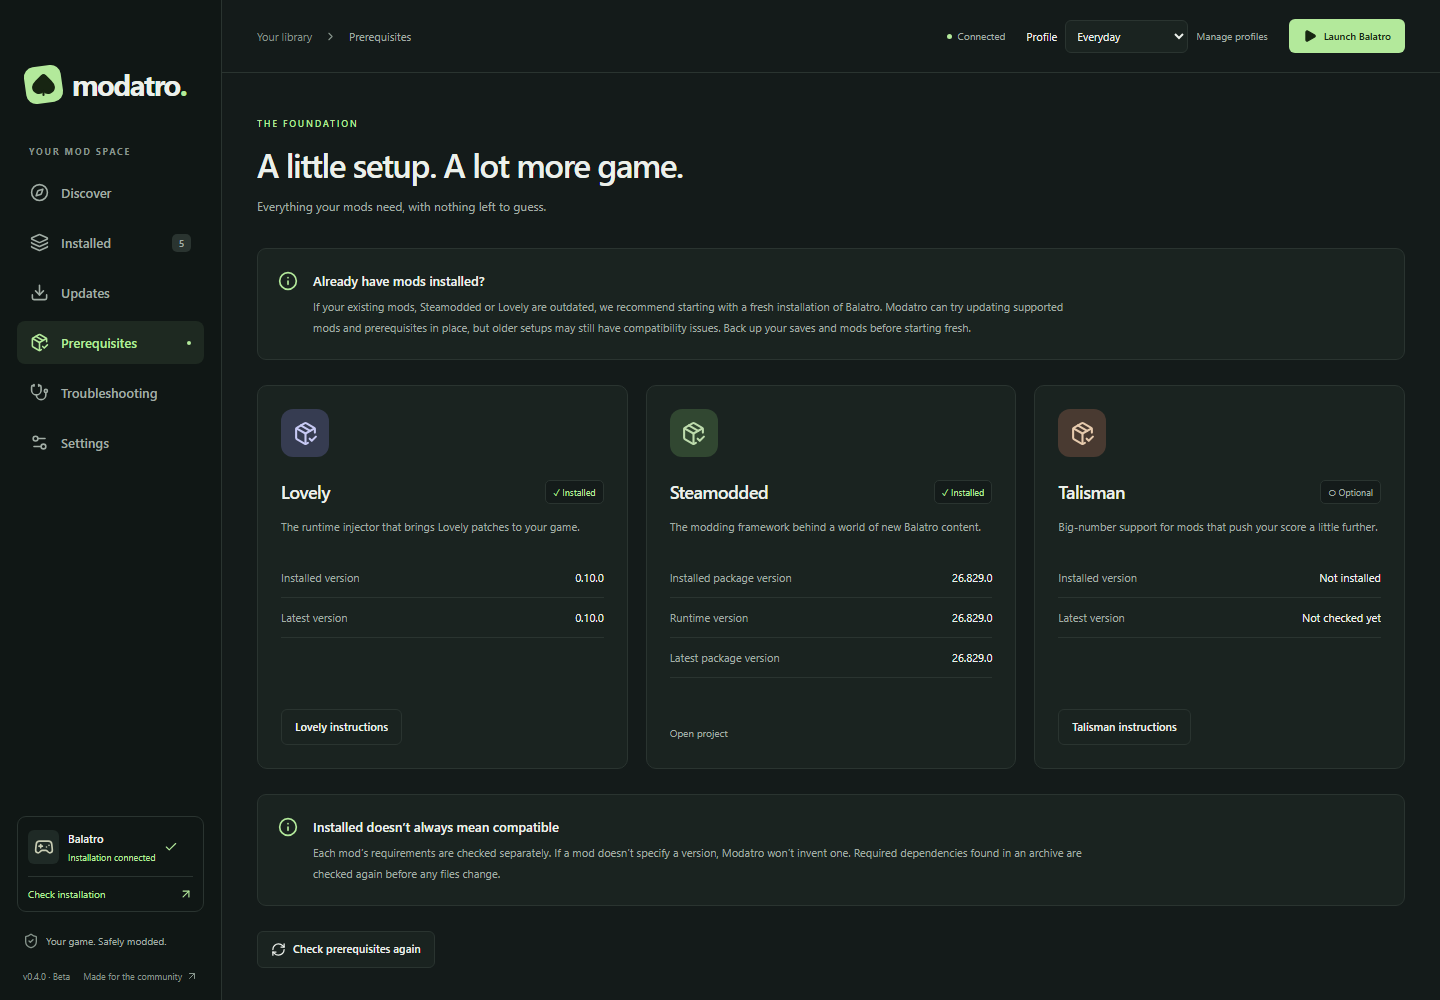
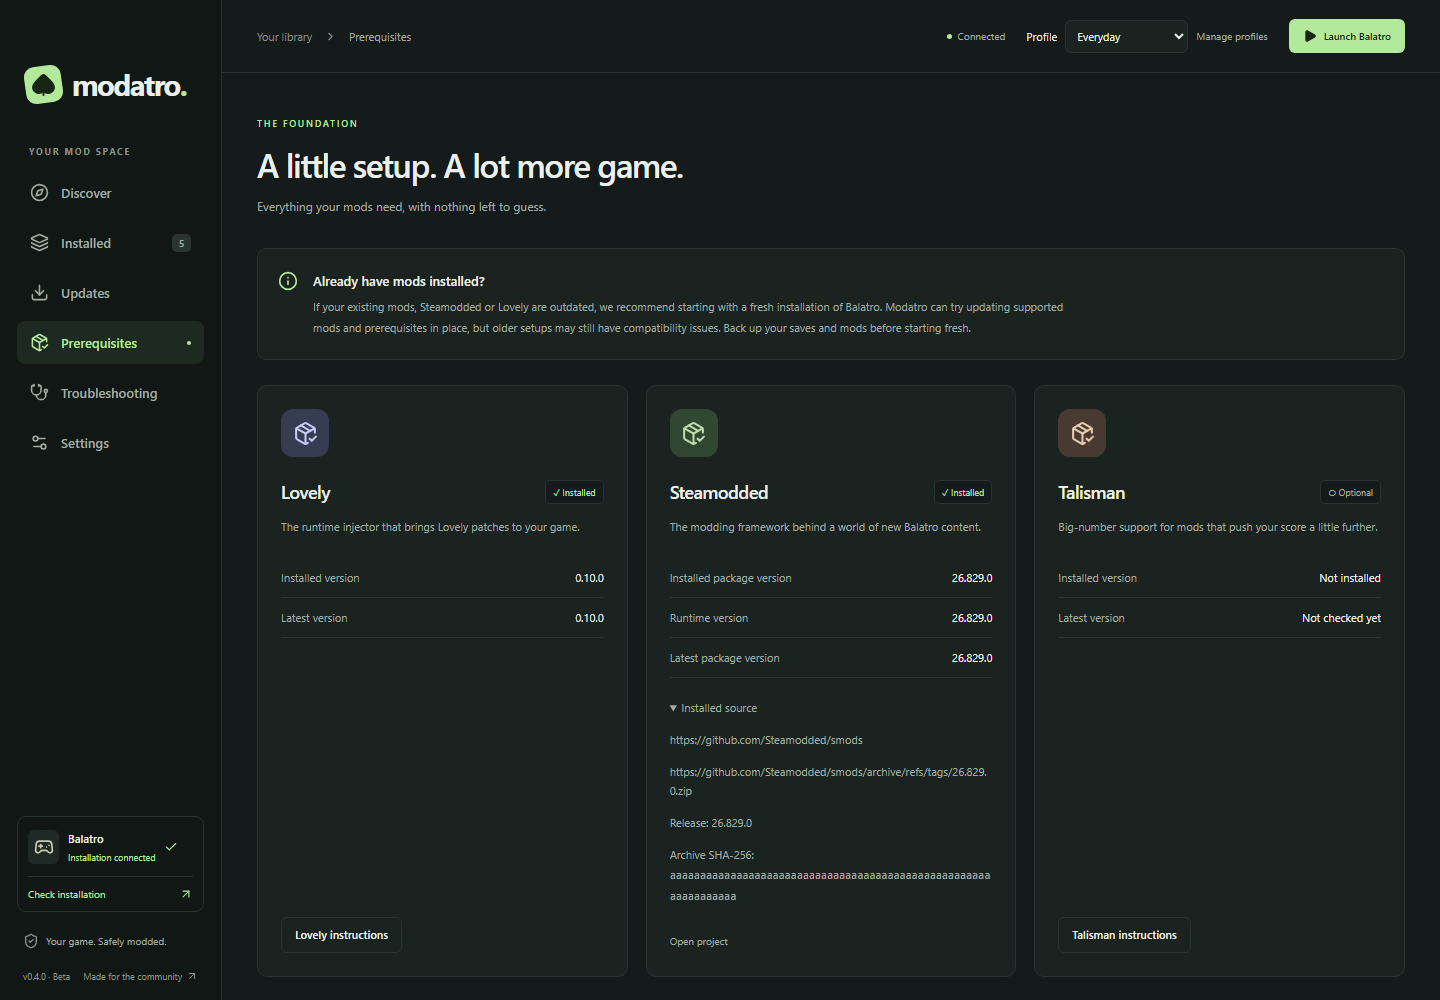
Wrap long source details and file paths across the app (#7)

diff --git a/tests/ui-requests.spec.ts b/tests/ui-requests.spec.ts
@@ -1246,6 +1246,153 @@ test('prerequisites keep external loader versions visible when package versions 
   await expect(lovely.locator('dd').first()).toHaveText('Version unknown');
 });
 
+test('source records, filenames and error paths wrap across pages and viewport widths', async ({
+  page,
+}) => {
+  const state = fixture();
+  const segment = 'LongUnbrokenName'.repeat(10);
+  const url = `https://github.com/tests/${segment}/archive/refs/tags/26.1002.0.zip`;
+  const path = `fixture/${segment}.lua`;
+  const provenance = {
+    sourceType: 'tag' as const,
+    repositoryUrl: `https://github.com/tests/${segment}`,
+    downloadUrl: url,
+    releaseTag: '26.1002.0',
+    sha256: 'a'.repeat(64),
+  };
+  for (const id of ['Lovely', 'Steamodded', 'Talisman']) {
+    const value = {
+      id,
+      displayName: id,
+      installed: true,
+      installedVersion: '26.1002.0',
+      latestVersion: '26.1002.0',
+      sourceUrl: provenance.repositoryUrl,
+      provenance,
+    };
+    const existing = state.prerequisites.find((p) => p.id === id);
+    if (existing) Object.assign(existing, value);
+    else state.prerequisites.push(value);
+  }
+  state.catalogue.mods[0]!.repositoryUrl = provenance.repositoryUrl;
+  state.catalogue.mods[0]!.title = segment;
+  state.localMods.push({
+    id: 'fixture',
+    title: 'Fixture mod',
+    version: '1.0.0',
+    state: 'broken',
+    managed: true,
+    folderName: 'fixture',
+    canAdopt: false,
+    provenance,
+    files: [{ root: 'mods', path, operation: 'created' }],
+    problems: [`Could not verify ${path}`],
+  });
+  state.settings.gamePath = `/game/${segment}`;
+  state.settings.modsPath = `/mods/${segment}`;
+  await mockDesktop(page, state, { previewPlan: 'hold', launch: 'hold' });
+  const assertContained = async () => {
+    const clipped = await page.evaluate(() => {
+      const scope =
+        document.querySelector('dialog[open]') ?? document.querySelector('.main-content')!;
+      const failures: string[] = [];
+      for (const element of scope.querySelectorAll<HTMLElement>('p, code, dd, li, h2, h3')) {
+        if (
+          !element.getClientRects().length ||
+          element.closest('details:not([open]) > :not(summary)')
+        )
+          continue;
+        const style = getComputedStyle(element);
+        if (style.textOverflow === 'ellipsis' || Number.parseInt(style.webkitLineClamp) > 0)
+          continue;
+        if (element.scrollWidth > element.clientWidth + 1)
+          failures.push(element.textContent!.slice(0, 100));
+        const range = document.createRange();
+        range.selectNodeContents(element);
+        const boundary = (
+          element.closest('.prerequisite-card, .local-row, dialog') ?? scope
+        ).getBoundingClientRect();
+        if (
+          [...range.getClientRects()].some(
+            (rect) =>
+              rect.width && (rect.left < boundary.left - 1 || rect.right > boundary.right + 1),
+          )
+        )
+          failures.push(`Outside container: ${element.textContent!.slice(0, 100)}`);
+      }
+      return failures;
+    });
+    expect(clipped).toEqual([]);
+  };
+  for (const width of [1440, 1024, 768, 375]) {
+    await page.setViewportSize({ width, height: 1000 });
+    await page.getByRole('button', { name: 'Discover', exact: true }).click();
+    await assertContained();
+    await page.getByRole('button', { name: 'Updates', exact: true }).click();
+    await assertContained();
+    await page.getByRole('button', { name: 'Troubleshooting', exact: true }).click();
+    await expect(page.getByRole('heading', { name: 'Setup overview', exact: true })).toBeVisible();
+    await assertContained();
+    await page.getByRole('button', { name: 'Prerequisites', exact: true }).click();
+    for (const source of await page.locator('.prerequisite-card details').all()) {
+      if ((await source.getAttribute('open')) === null) await source.locator('summary').click();
+    }
+    await expect(
+      page.locator('.prerequisite-card').first().getByText(url, { exact: true }),
+    ).toBeVisible();
+    await assertContained();
+    if (width === 1440 || width === 375)
+      await page.screenshot({
+        path: `test-results/prerequisite-source-${width}.png`,
+        fullPage: true,
+      });
+    await page
+      .getByRole('navigation')
+      .getByRole('button', { name: /^Installed/ })
+      .click();
+    for (const source of await page.locator('.local-row details').all()) {
+      if ((await source.getAttribute('open')) === null) await source.locator('summary').click();
+    }
+    await assertContained();
+    await page.getByRole('button', { name: 'Fixture mod', exact: true }).click();
+    await assertContained();
+    const dialog = page.getByRole('dialog');
+    await dialog.getByRole('button', { name: 'Preview file changes', exact: true }).click();
+    await page.evaluate(
+      (path) =>
+        window.requestsTest.finish('previewPlan', {
+          ok: true,
+          value: {
+            modId: 'fixture',
+            version: '1.0.0',
+            create: [{ root: 'mods', path }],
+            replace: [],
+            remove: [],
+            prerequisites: [],
+            conflicts: [],
+          },
+        }),
+      path,
+    );
+    await dialog.locator('details summary').click();
+    await assertContained();
+    await page.keyboard.press('Escape');
+    await page.getByRole('button', { name: 'Settings', exact: true }).click();
+    await assertContained();
+    await page.getByRole('button', { name: /^Launch (Modded )?Balatro$/ }).click();
+    await page.evaluate(
+      (path) =>
+        window.requestsTest.finish('launch', {
+          ok: false,
+          error: { message: `Cannot access ${path}` },
+        }),
+      path,
+    );
+    await assertContained();
+    await closeError(page);
+  }
+});
+
 test('prerequisites compare only recorded versions from the same package source', async ({
   page,
 }) => {

diff --git a/src/styles.css b/src/styles.css
@@ -47,6 +47,7 @@
 body {
   margin: 0;
   color: var(--text);
+  overflow-wrap: anywhere;
 }
 button,
 input,
@@ -1173,6 +1174,7 @@ select {
   padding: 23px;
   display: flex;
   flex-direction: column;
+  min-width: 0;
 }
 .prerequisite-icon {
   width: 48px;
@@ -1244,6 +1246,7 @@ select {
 }
 .version-facts dd {
   margin: 0;
+  min-width: 0;
   text-align: right;
   overflow-wrap: anywhere;
 }
@@ -1251,6 +1254,7 @@ details {
   color: var(--muted);
   font-size: 11px;
   line-height: 1.8;
+  min-width: 0;
 }
 summary {
   cursor: pointer;

diff --git a/CONTRIBUTING.md b/CONTRIBUTING.md
@@ -142,9 +142,11 @@ pnpm exec playwright install chromium
 node scripts/screenshots.mjs
 ```
 
-The script starts its own Vite server on port 5183, captures Discover, Installed and
-Prerequisites into `docs/images/`, then closes the browser and server. The Discover
-image is also copied to `website/images/` for the landing page. The script uses a
+The script starts its own Vite server on port 5183, captures all eight app views
+into `docs/images/`, then closes the browser and server. Discover, Profiles and
+Troubleshooting images are also copied to `website/images/` for the landing page.
+The prerequisite preview expands a representative source record with a synthetic
+checksum so long-value wrapping is visible. The script uses a
 read-only desktop bridge and blocks external requests; it cannot discover or change
 your game files. Review the images and commit them with any relevant documentation
 changes. The screenshot data comes from the checked-in catalogue sample and does

diff --git a/docs/verification.md b/docs/verification.md
@@ -141,6 +141,10 @@ Browser regressions also check that only installed prerequisites have overview b
 that regular mods are not duplicated as badges, enabled/disabled/unknown
 mod groups at desktop and mobile widths, and collapsed installation file lists that
 can be expanded without hiding package information or confirmation controls.
+Text-layout coverage expands prerequisite and installed source records, inspects
+mod details and file previews, and checks settings and error paths at 1440, 1024,
+768 and 375 pixels. Long URLs, SHA-256 hashes, filenames and mod names must stay
+inside their cards and dialogs rather than being clipped.
 
 Version tests cover consecutive published patches despite workflow gaps, semantic
 ordering, major/minor/patch PR title prefixes, default patch behavior, validated

diff --git a/README.md b/README.md
@@ -21,7 +21,9 @@ configurations are shared across profiles; unmanaged mods can still affect gamep
 | [![Installed mods with management actions and source records](docs/images/installed.png)](docs/images/installed.png) | [![Lovely, Steamodded and Talisman installation and version checks](docs/images/prerequisites.png)](docs/images/prerequisites.png) |
 
 Screenshots show the current interface with representative catalogue and installation
-data. Click either smaller image to view it at full size.
+data. The prerequisite preview includes an expanded source record with a synthetic
+checksum; URLs and hashes wrap within the card. Click either smaller image to view
+it at full size.
 
 ## Download
 
